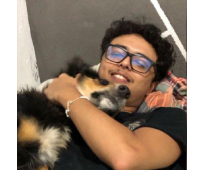
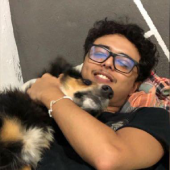
Adicionado imagens dos integrantes simulando depoimentos e alteros box de img acrescentando dropshadow para melhor destaque da imagem (Feito o .cliente_img img no css para alteracao apenas da img do depoimentos).

diff --git a/index.html b/index.html
@@ -193,17 +193,32 @@
                         <div class="carousel-item active">
                            <p class="testimonial_text">Comprei materiais de arte e cadernos no Planeta Papel e fiquei encantado com a qualidade e o atendimento!</p>
                            <h4 class="client_name">Maycon Andrade</h4>
-                           <div class="client_img"><img src="images/maycacon-img.png" alt="Juliana Souza"></div>
+                           <div class="client_img"><img src="images/maycacon-img.png" alt="Maycon Andrade"></div>
                         </div>
                         <div class="carousel-item">
                            <p class="testimonial_text">Os produtos são lindos e práticos. Perfeitos para quem ama papelaria criativa e quer deixar tudo mais bonito.</p>
-                           <h4 class="client_name">Carlos Henrique</h4>
-                           <div class="client_img"><img src="images/client-img.png" alt="Carlos Henrique"></div>
+                           <h4 class="client_name">Carlos Otacílio Rodrigues dos Anjos</h4>
+                           <div class="client_img"><img src="images/henrique.png" alt="Carlos Otacílio Rodrigues"></div>
                         </div>
                         <div class="carousel-item">
                            <p class="testimonial_text">Adorei os itens de decoração! Meu cantinho de estudos ficou muito mais aconchegante. Super recomendo!</p>
-                           <h4 class="client_name">Renata Lima</h4>
-                           <div class="client_img"><img src="images/client-img.png" alt="Renata Lima"></div>
+                           <h4 class="client_name">Antônio Gabriel Mozart Azevedo</h4>
+                           <div class="client_img"><img src="images/Gabriel.jpeg" alt="Antônio Gabriel Mozart"></div>
+                        </div>
+                        <div class="carousel-item">
+                           <p class="testimonial_text">Fiquei apaixonada pelos itens! Trouxeram vida e charme ao meu cantinho de estudos. Cada peça tem um toque especial. Vale muito a pena!</p>
+                           <h4 class="client_name">Daniely Mélo</h4>
+                           <div class="client_img"><img src="images/dani.jpg" alt="Daniely Mélo"></div>
+                        </div>
+                        <div class="carousel-item">
+                           <p class="testimonial_text">Produtos incríveis! Chegaram rapidinho e deixaram meu ambiente com uma energia nova. Já quero montar outro espaço só pra decorar mais!</p>
+                           <h4 class="client_name">Kaio Vinicius Da Silva Ferreira</h4>
+                           <div class="client_img"><img src="images/viniciyus.webp" alt="Kaio Vinicius"></div>
+                        </div>
+                        <div class="carousel-item">
+                           <p class="testimonial_text">Qualidade excelente e muito bom gosto na escolha das peças. Meu home office ficou muito mais funcional e bonito. Recomendo sem pensar duas vezes!</p>
+                           <h4 class="client_name">Anderson Guimarães</h4>
+                           <div class="client_img"><img src="images/Anderson.jpg" alt="Anderson Guimarães"></div>
                         </div>
                      </div>
                      <a class="carousel-control-prev" href="#main_slider" role="button" data-slide="prev">

diff --git a/css/style.css b/css/style.css
@@ -1035,6 +1035,10 @@ faz parte do slide se mover todo ou parte dele(fim)*/
     text-align: center;
     margin-top: 10px;
 }
+.client_img img {
+    box-shadow: 1px 1px 20px 5px #ededec;
+    border-radius: 5px;
+    }
 
 #main_slider a.carousel-control-next {
     position: absolute;
